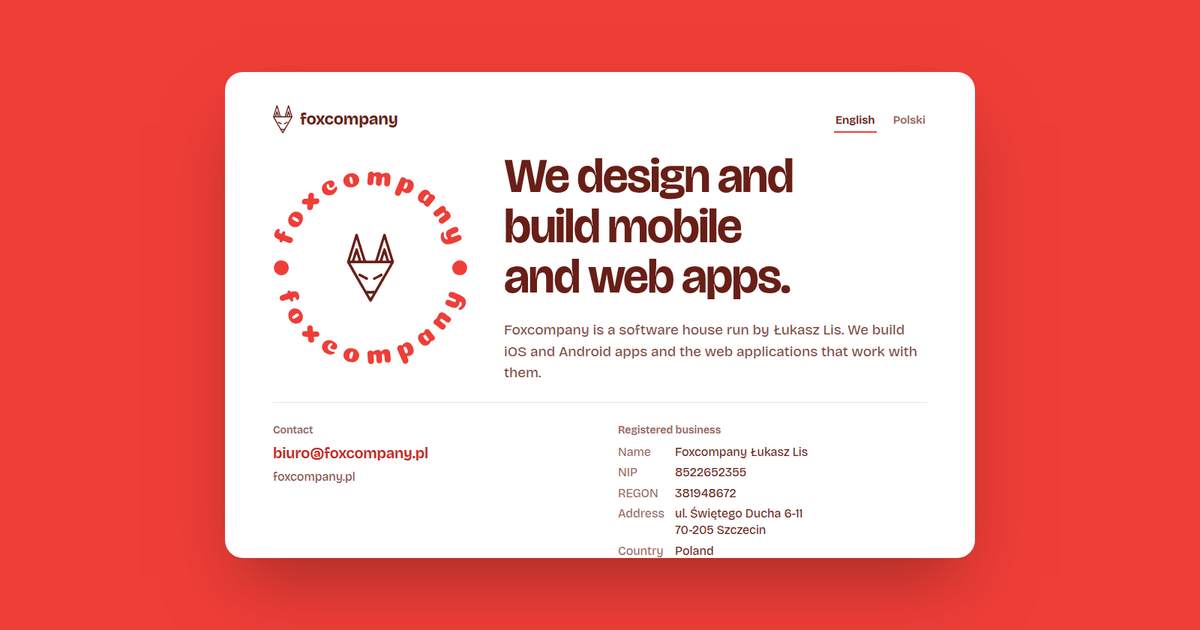
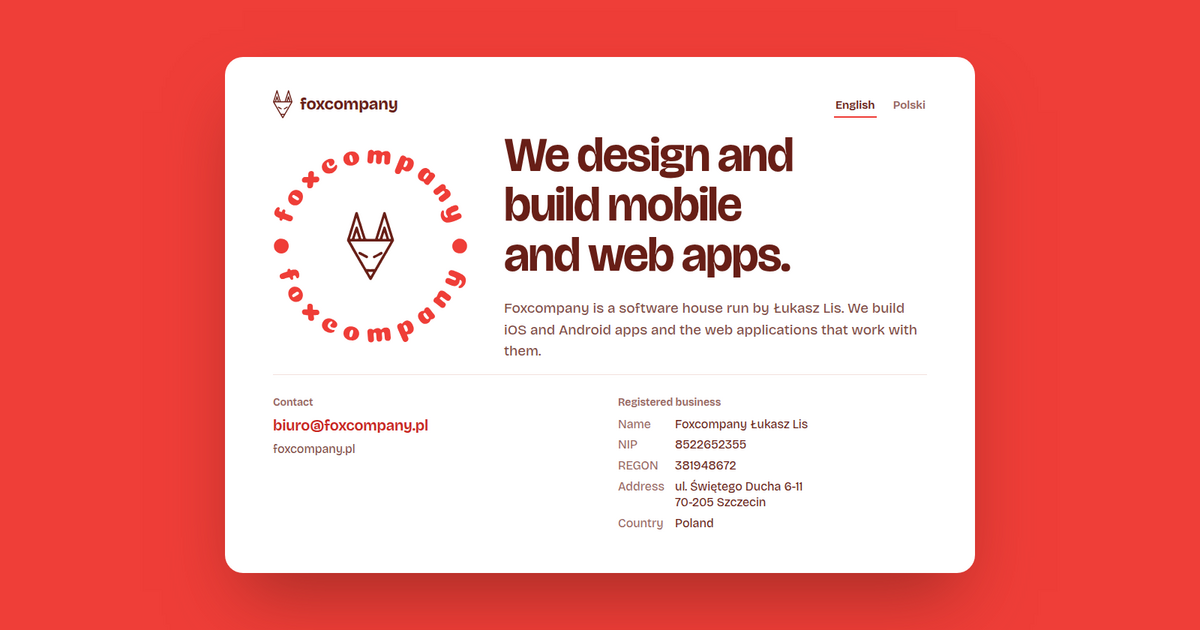
fix(site): let the card grow past its aspect ratio when content is taller

diff --git a/src/styles/global.css b/src/styles/global.css
@@ -202,7 +202,7 @@ a:hover {
   }
 
   .card {
-    min-height: 0;
+    min-height: auto;
     aspect-ratio: 85 / 55;
     padding: 44px 64px 56px;
     box-shadow: 0 48px 90px -24px rgb(104 31 23 / 0.55);
@@ -225,7 +225,7 @@ a:hover {
     flex-direction: row;
     align-items: center;
     gap: 48px;
-    padding: 24px 0;
+    padding: 16px 0;
   }
 
   .lead-text {
